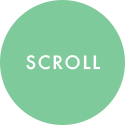
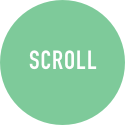
change to nav bar and some styling updates

Changed region(s): [[0.192, 0.384, 0.816, 0.576]]

diff --git a/public/css/style.css b/public/css/style.css
@@ -7,7 +7,7 @@ body {
   padding: 32px; }
 
 .nav-wrapper {
-  background-color: transparent;
+  background-color: #EEECEA;
   font-family: "Roboto", sans-serif; }
   .nav-wrapper .corner-logo {
     max-height: 44px; }
@@ -17,9 +17,6 @@ body {
     width: 16px; }
   .nav-wrapper .collapse-wrapper {
     max-width: 800px; }
-  @media screen and (min-width: 992px) {
-    .nav-wrapper {
-      background-color: #EEECEA; } }
 
 .header-title {
   height: 100%;
@@ -69,7 +66,7 @@ body {
     @media screen and (min-width: 576px) {
       .menu-content .menu-text {
         font-size: 15em;
-        top: 10%; } }
+        top: -5%; } }
 
 .about-title {
   font-family: "Roboto", sans-serif;
@@ -78,4 +75,4 @@ body {
 img {
   max-width: 90%; }
 
[2 lines of base64/hex data omitted]

diff --git a/public/index.html b/public/index.html
@@ -23,7 +23,7 @@
           <nav class="navbar navbar-expand-lg navbar-light nav-wrapper">
               <div class="container">
                   <a href="">
-                      <img class="corner-logo" src="./Bitmap Copy 3.png"/>
+                      <img class="corner-logo" src="./assets/Bitmap Copy 3.png"/>
                   </a>
                   <button class="navbar-toggler" type="button" data-toggle="collapse" data-target="#navbarNav" aria-controls="navbarNav" aria-expanded="false" aria-label="Toggle navigation">
                       <span class="navbar-toggler-icon"></span>

diff --git a/src/scss/_header.scss b/src/scss/_header.scss
@@ -1,5 +1,5 @@
 .nav-wrapper {
-    background-color: transparent;
+    background-color: $beige;
     font-family: $roboto;
     .corner-logo {
         max-height: 44px;
@@ -12,9 +12,6 @@
     }
     .collapse-wrapper {
         max-width: 800px;
-    }
-    @media screen and (min-width: 992px) {
-        background-color: $beige;
     }
 }
 

diff --git a/src/scss/_menu.scss b/src/scss/_menu.scss
@@ -18,7 +18,7 @@
         color: $aqua;
         @media screen and (min-width: 576px) {
             font-size: 15em;
-            top: 10%;
+            top: -5%;
         }
     }
 }
